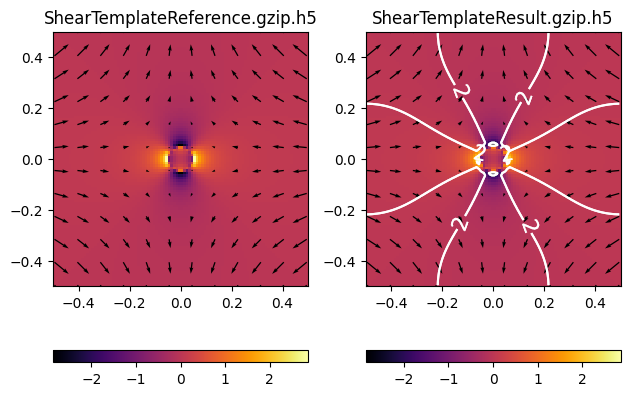
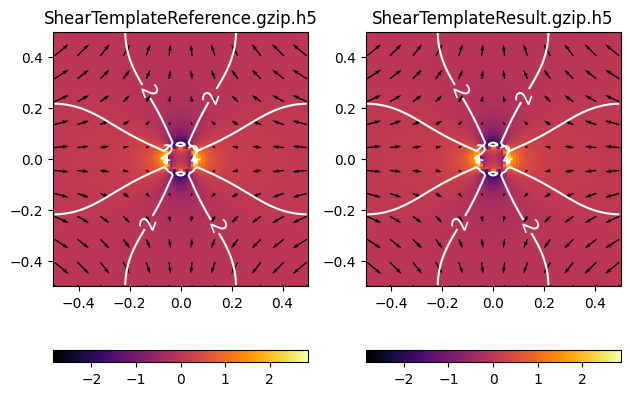
fix python file

diff --git a/PLOTS/ShearTemplate.py b/PLOTS/ShearTemplate.py
@@ -44,7 +44,7 @@ Tiic = np.sqrt(0.5 * (Txx ** 2 + Tzz ** 2) + Txzc ** 2)
 # Step for visualisation of quiver arrows
 stp = 9
 
-contours = plt.contour(xc2, zc2, Tiic.transpose(), [2.0], colors='white')
+contours = axs[0].contour(xc2, zc2, Tiic.transpose(), [2.0], colors='white')
 axs[0].clabel(contours, inline=True, fontsize=15)
 im = axs[0].pcolormesh(xc, zc, P.transpose(), shading='auto')
 axs[0].quiver(xc2[::stp, ::stp], zc2[::stp, ::stp], Vxc[::stp, ::stp].transpose(), Vzc[::stp, ::stp].transpose())
@@ -90,7 +90,7 @@ Tiic = np.sqrt(0.5 * (Txx ** 2 + Tzz ** 2) + Txzc ** 2)
 # Step for visualisation of quiver arrows
 stp = 9
 
-contours = plt.contour(xc2, zc2, Tiic.transpose(), [2.0], colors='white')
+contours = axs[1].contour(xc2, zc2, Tiic.transpose(), [2.0], colors='white')
 axs[1].clabel(contours, inline=True, fontsize=15)
 im = axs[1].pcolormesh(xc, zc, P.transpose(), shading='auto')
 axs[1].quiver(xc2[::stp, ::stp], zc2[::stp, ::stp], Vxc[::stp, ::stp].transpose(), Vzc[::stp, ::stp].transpose())
